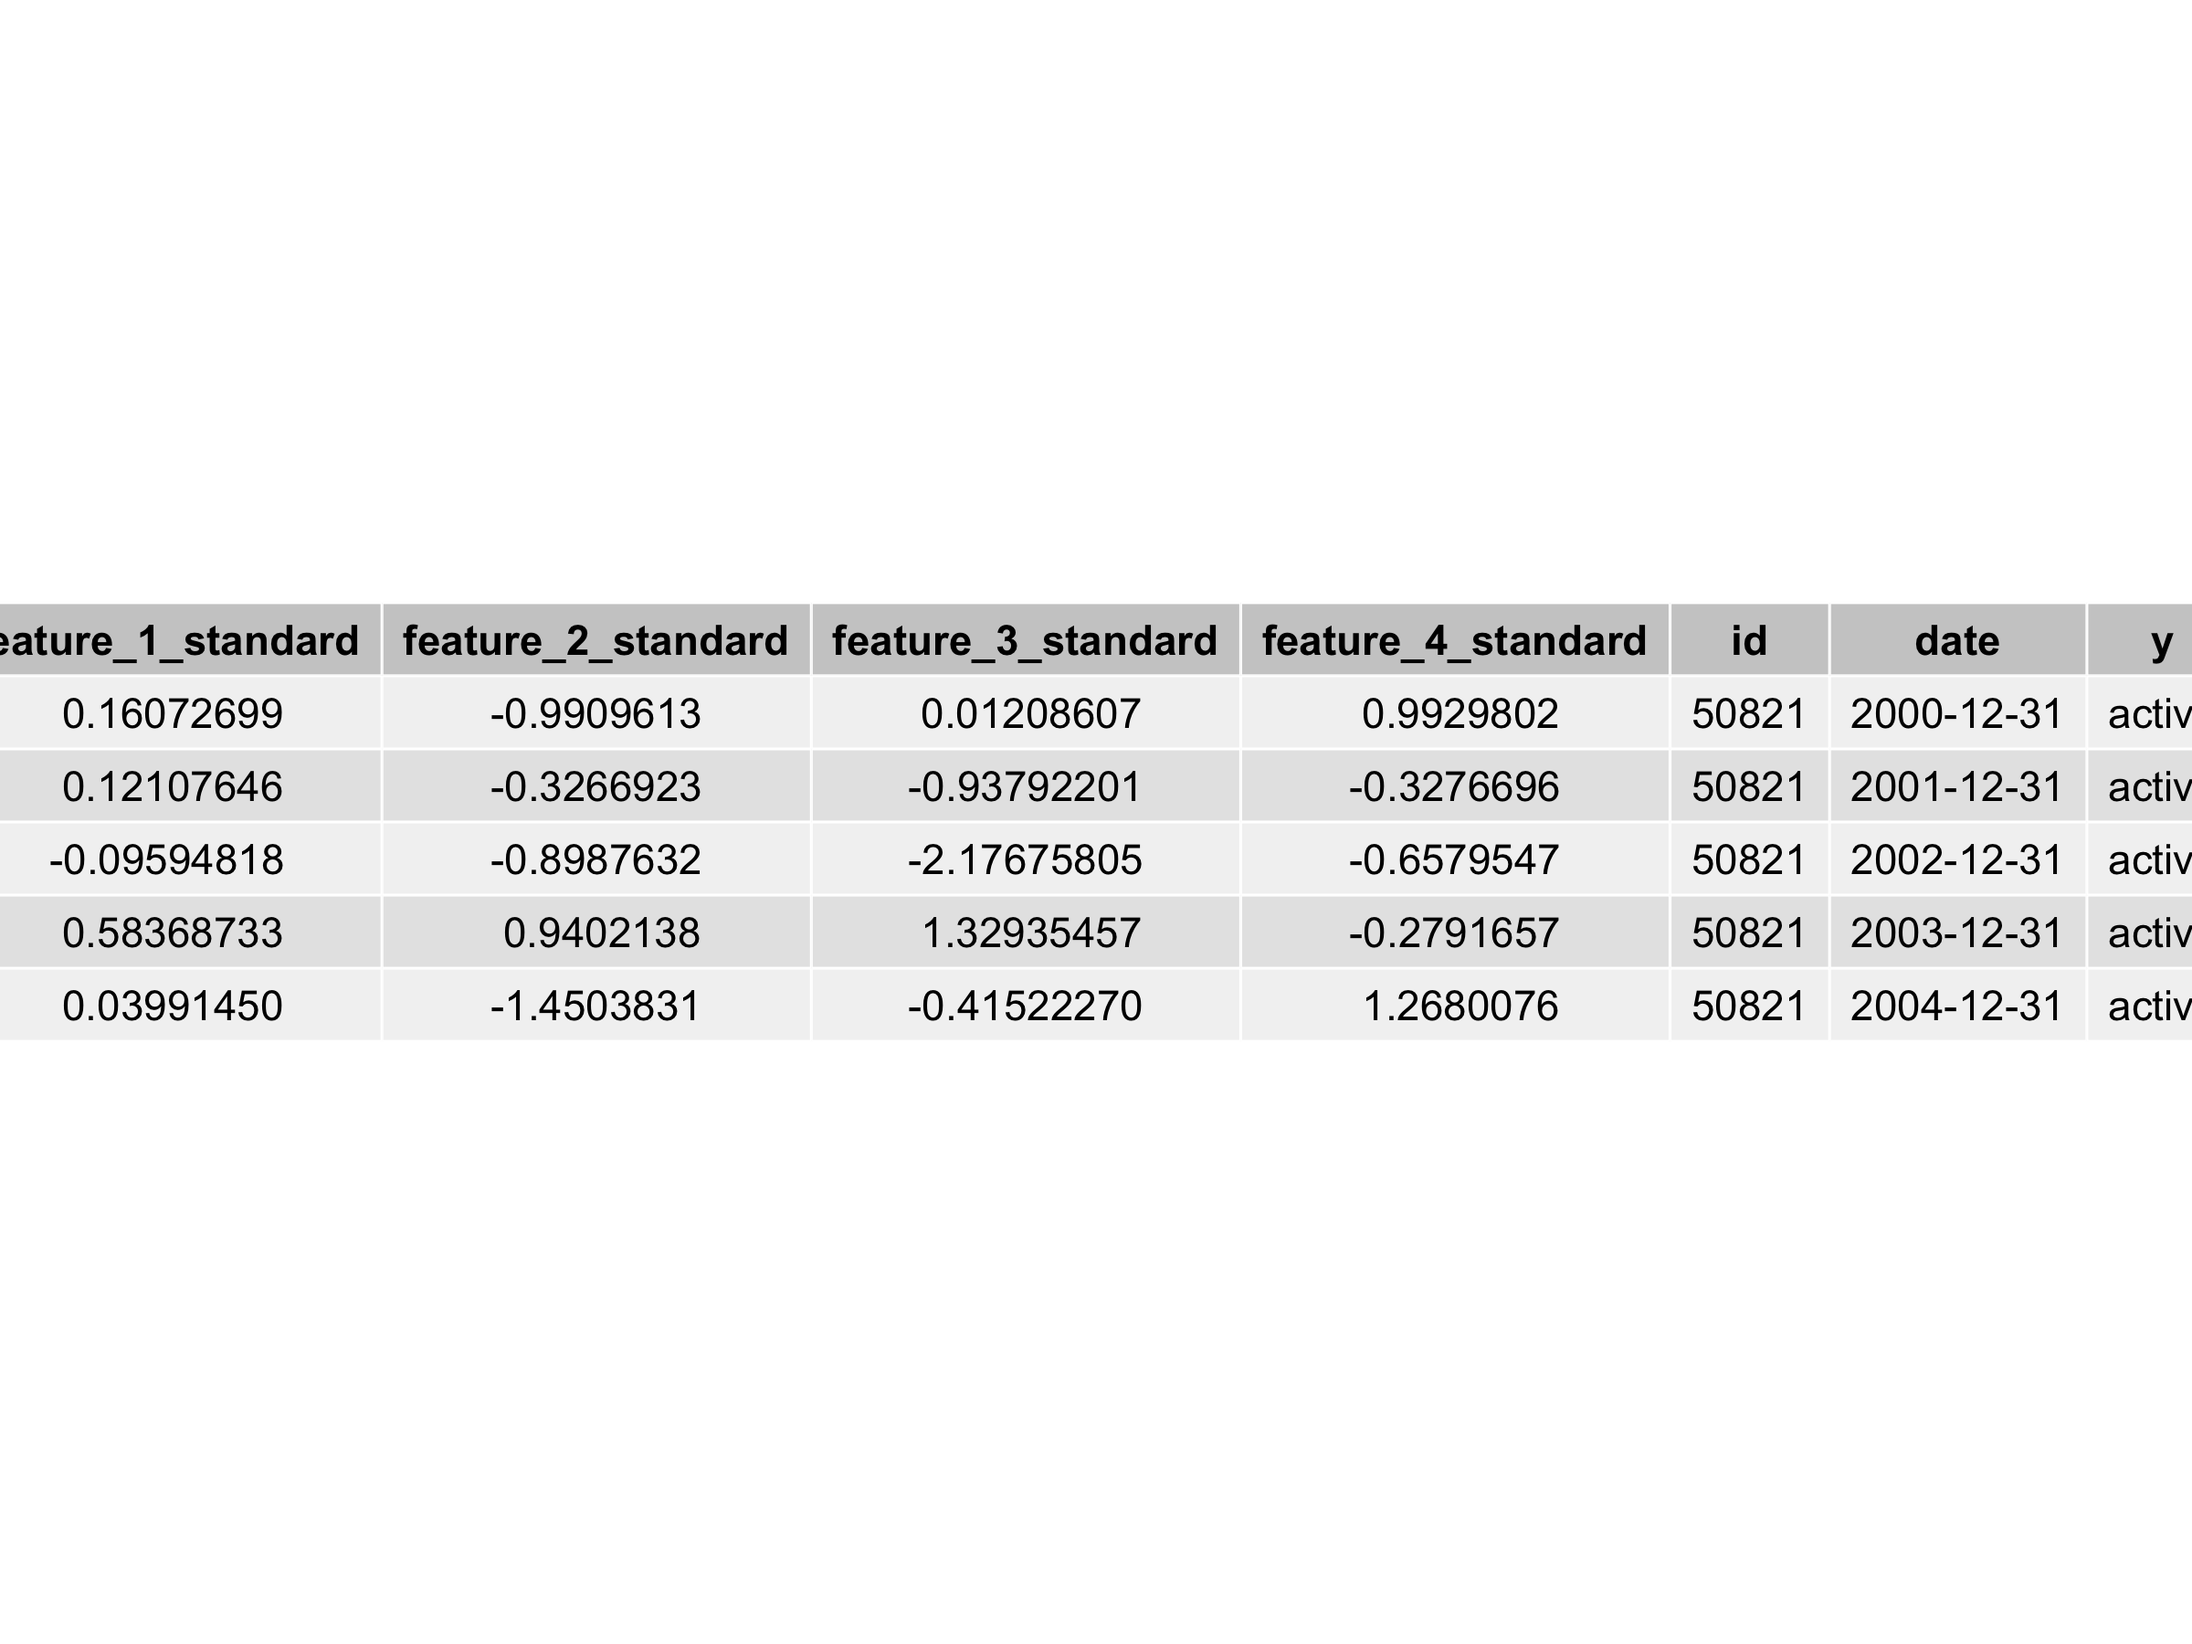
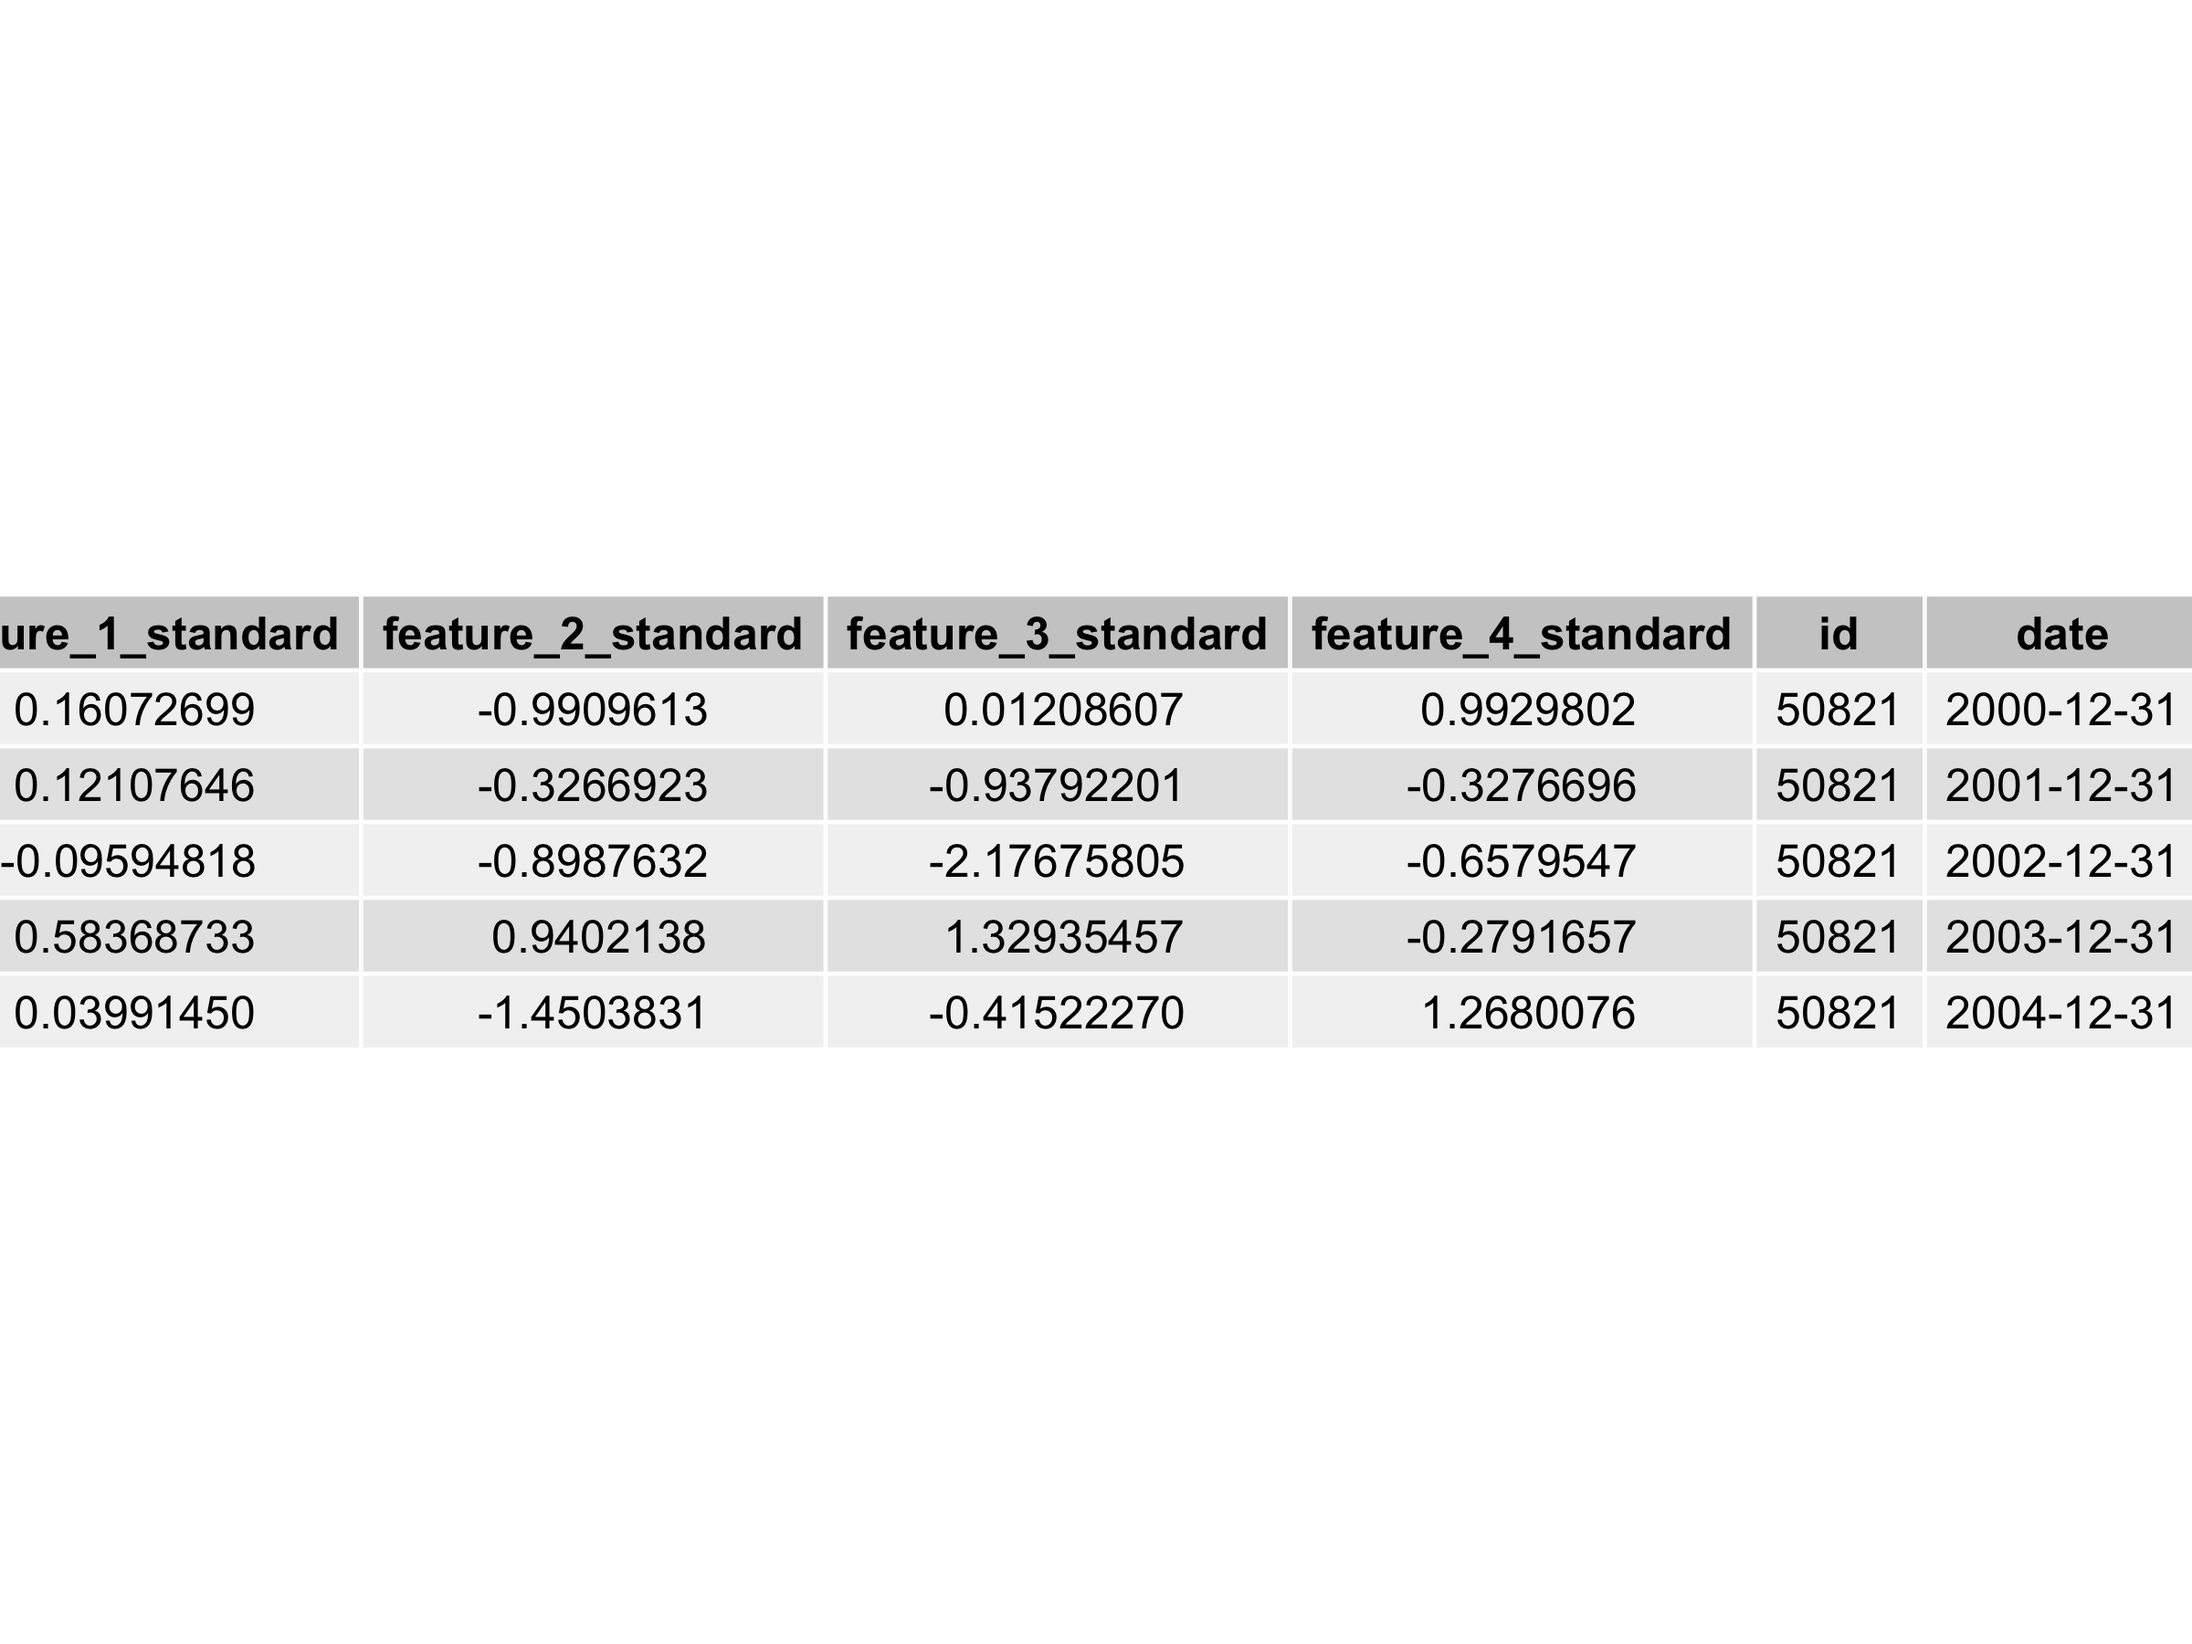
mm

Changed region(s): [[0.0, 0.3422, 1.0, 0.6222], [0.5625, 0.4667, 0.5938, 0.4978], [0.1562, 0.56, 0.1875, 0.5911]]

diff --git a/Delinquency_Prediction/ReadMe.md b/Delinquency_Prediction/ReadMe.md
@@ -261,116 +261,18 @@ are representative of the models accuracy being evaluated of future
 data. The following analysis are those accuracy results.
 
 ``` r
-# Install the flextable package if not already installed
-
-# Load the necessary libraries
-library(flextable)
-library(tibble)
-
-# Assuming `test` is your tibble or data frame
-head_test <- head(test, 5)
-
-# Create a flextable object
-flex_table <- flextable(head_test) %>%
-  autofit() %>%                     # Adjust column widths automatically
-  set_table_properties(width = 1)   # Scale the table to fit in a smaller space
-
-# Save the table as an image
-save_as_image(
-  flex_table,
-  path = "~/Desktop/DS_DA_Projects/Anamoly_Detection/ReadMe_files/figure-gfm/flextable_image.png"
-)
-```
-
-    ## [1] "~/Desktop/DS_DA_Projects/Anamoly_Detection/ReadMe_files/figure-gfm/flextable_image.png"
-
-``` r
-knitr::include_graphics("~/Desktop/DS_DA_Projects/Anamoly_Detection/ReadMe_files/figure-gfm/gt_table_image.png")
+library(gridExtra)
+library(grid)
+table_grob <- tableGrob(head(test, 5))
+grid.newpage()
+grid.draw(table_grob)
 ```
 
 <div align="center">
 
-<img src="../Anamoly_Detection/ReadMe_files/figure-gfm/gt_table_image.png" width="70%">
+<img src="ReadMe_files/figure-gfm/unnamed-chunk-8-1.png" width="70%">
 
 </div>
-
-<table style="width:96%;">
-<colgroup>
-<col style="width: 19%" />
-<col style="width: 16%" />
-<col style="width: 16%" />
-<col style="width: 16%" />
-<col style="width: 7%" />
-<col style="width: 10%" />
-<col style="width: 7%" />
-</colgroup>
-<thead>
-<tr>
-<th
-style="text-align: center;"><p><strong>feature_1_standard</strong></p>
-<p>&lt;dbl&gt;</p></th>
-<th style="text-align: center;"><p>feature_2_standard</p>
-<p>&lt;dbl&gt;</p></th>
-<th style="text-align: center;"><p>feature_3_standard</p>
-<p>&lt;dbl&gt;</p></th>
-<th style="text-align: center;"><p>feature_4_standard</p>
-<p>&lt;dbl&gt;</p></th>
-<th style="text-align: center;"><p>id</p>
-<p>&lt;int&gt;</p></th>
-<th style="text-align: center;"><p>date</p>
-<p>&lt;chr&gt;</p></th>
-<th style="text-align: center;"><p>y</p>
-<p>&lt;chr&gt;</p></th>
-</tr>
-</thead>
-<tbody>
-<tr>
-<td style="text-align: center;">0.16072699</td>
-<td style="text-align: center;">-0.9909613</td>
-<td style="text-align: center;">0.01208607</td>
-<td style="text-align: center;">0.9929802</td>
-<td style="text-align: center;">50821</td>
-<td style="text-align: center;">2000-12-31</td>
-<td style="text-align: center;">active</td>
-</tr>
-<tr>
-<td style="text-align: center;">0.12107646</td>
-<td style="text-align: center;">-0.3266923</td>
-<td style="text-align: center;">-0.93792201</td>
-<td style="text-align: center;">-0.3276696</td>
-<td style="text-align: center;">50821</td>
-<td style="text-align: center;">2001-12-31</td>
-<td style="text-align: center;">active</td>
-</tr>
-<tr>
-<td style="text-align: center;">-0.09594818</td>
-<td style="text-align: center;">-0.8987632</td>
-<td style="text-align: center;">-2.17675805</td>
-<td style="text-align: center;">-0.6579547</td>
-<td style="text-align: center;">50821</td>
-<td style="text-align: center;">2002-12-31</td>
-<td style="text-align: center;">active</td>
-</tr>
-<tr>
-<td style="text-align: center;">0.58368733</td>
-<td style="text-align: center;">0.9402138</td>
-<td style="text-align: center;">1.32935457</td>
-<td style="text-align: center;">-0.2791657</td>
-<td style="text-align: center;">50821</td>
-<td style="text-align: center;">2003-12-31</td>
-<td style="text-align: center;">active</td>
-</tr>
-<tr>
-<td style="text-align: center;">0.03991450</td>
-<td style="text-align: center;">-1.4503831</td>
-<td style="text-align: center;">-0.41522270</td>
-<td style="text-align: center;">1.2680076</td>
-<td style="text-align: center;">50821</td>
-<td style="text-align: center;">2004-12-31</td>
-<td style="text-align: center;">active</td>
-</tr>
-</tbody>
-</table>
 
 To asses the accuracy of the model and find the optimal decision
 threshold we produce the ROC curve.
